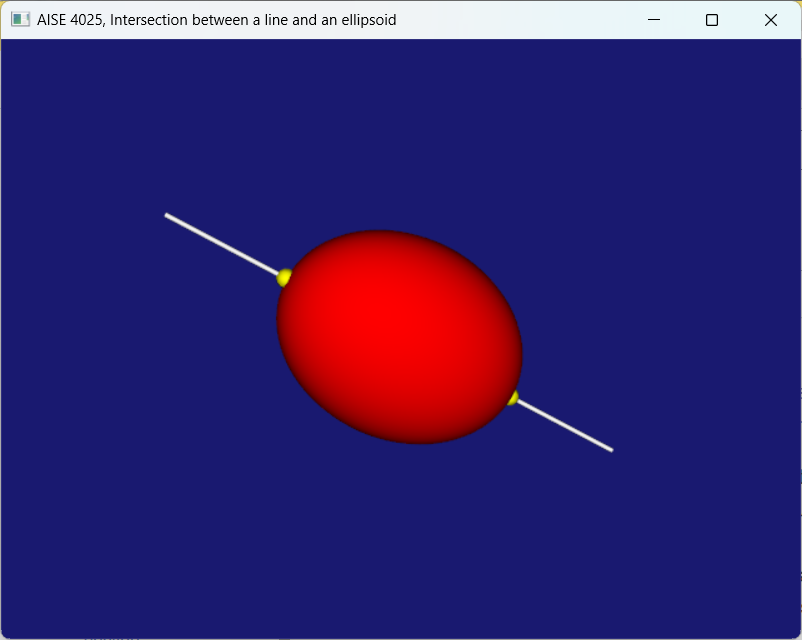
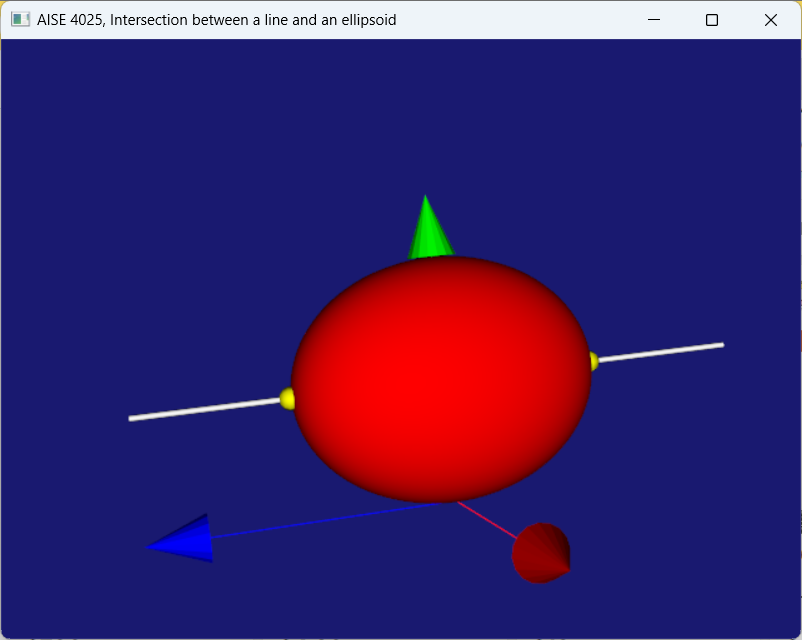
update tutorial 8

diff --git a/README.md b/README.md
@@ -2,7 +2,7 @@
 
 The website is live [here](https://cheneuwo.github.io/AISE4025/)
 
-Updated on January 18, 2026
+Updated on January 19, 2026
 
 This work is built using [Jupyter Book 2](https://jupyterbook.org/stable/). To run it, JupyterBook V2 must be installed. Refer to [this page](https://jupyterbook.org/stable/get-started/install/) for installation process. 
 

diff --git a/primary-sidebar-footer.md b/primary-sidebar-footer.md
@@ -1,1 +1,1 @@
-**AISE4025**, January 18, 2026
+**AISE4025**, January 19, 2026
